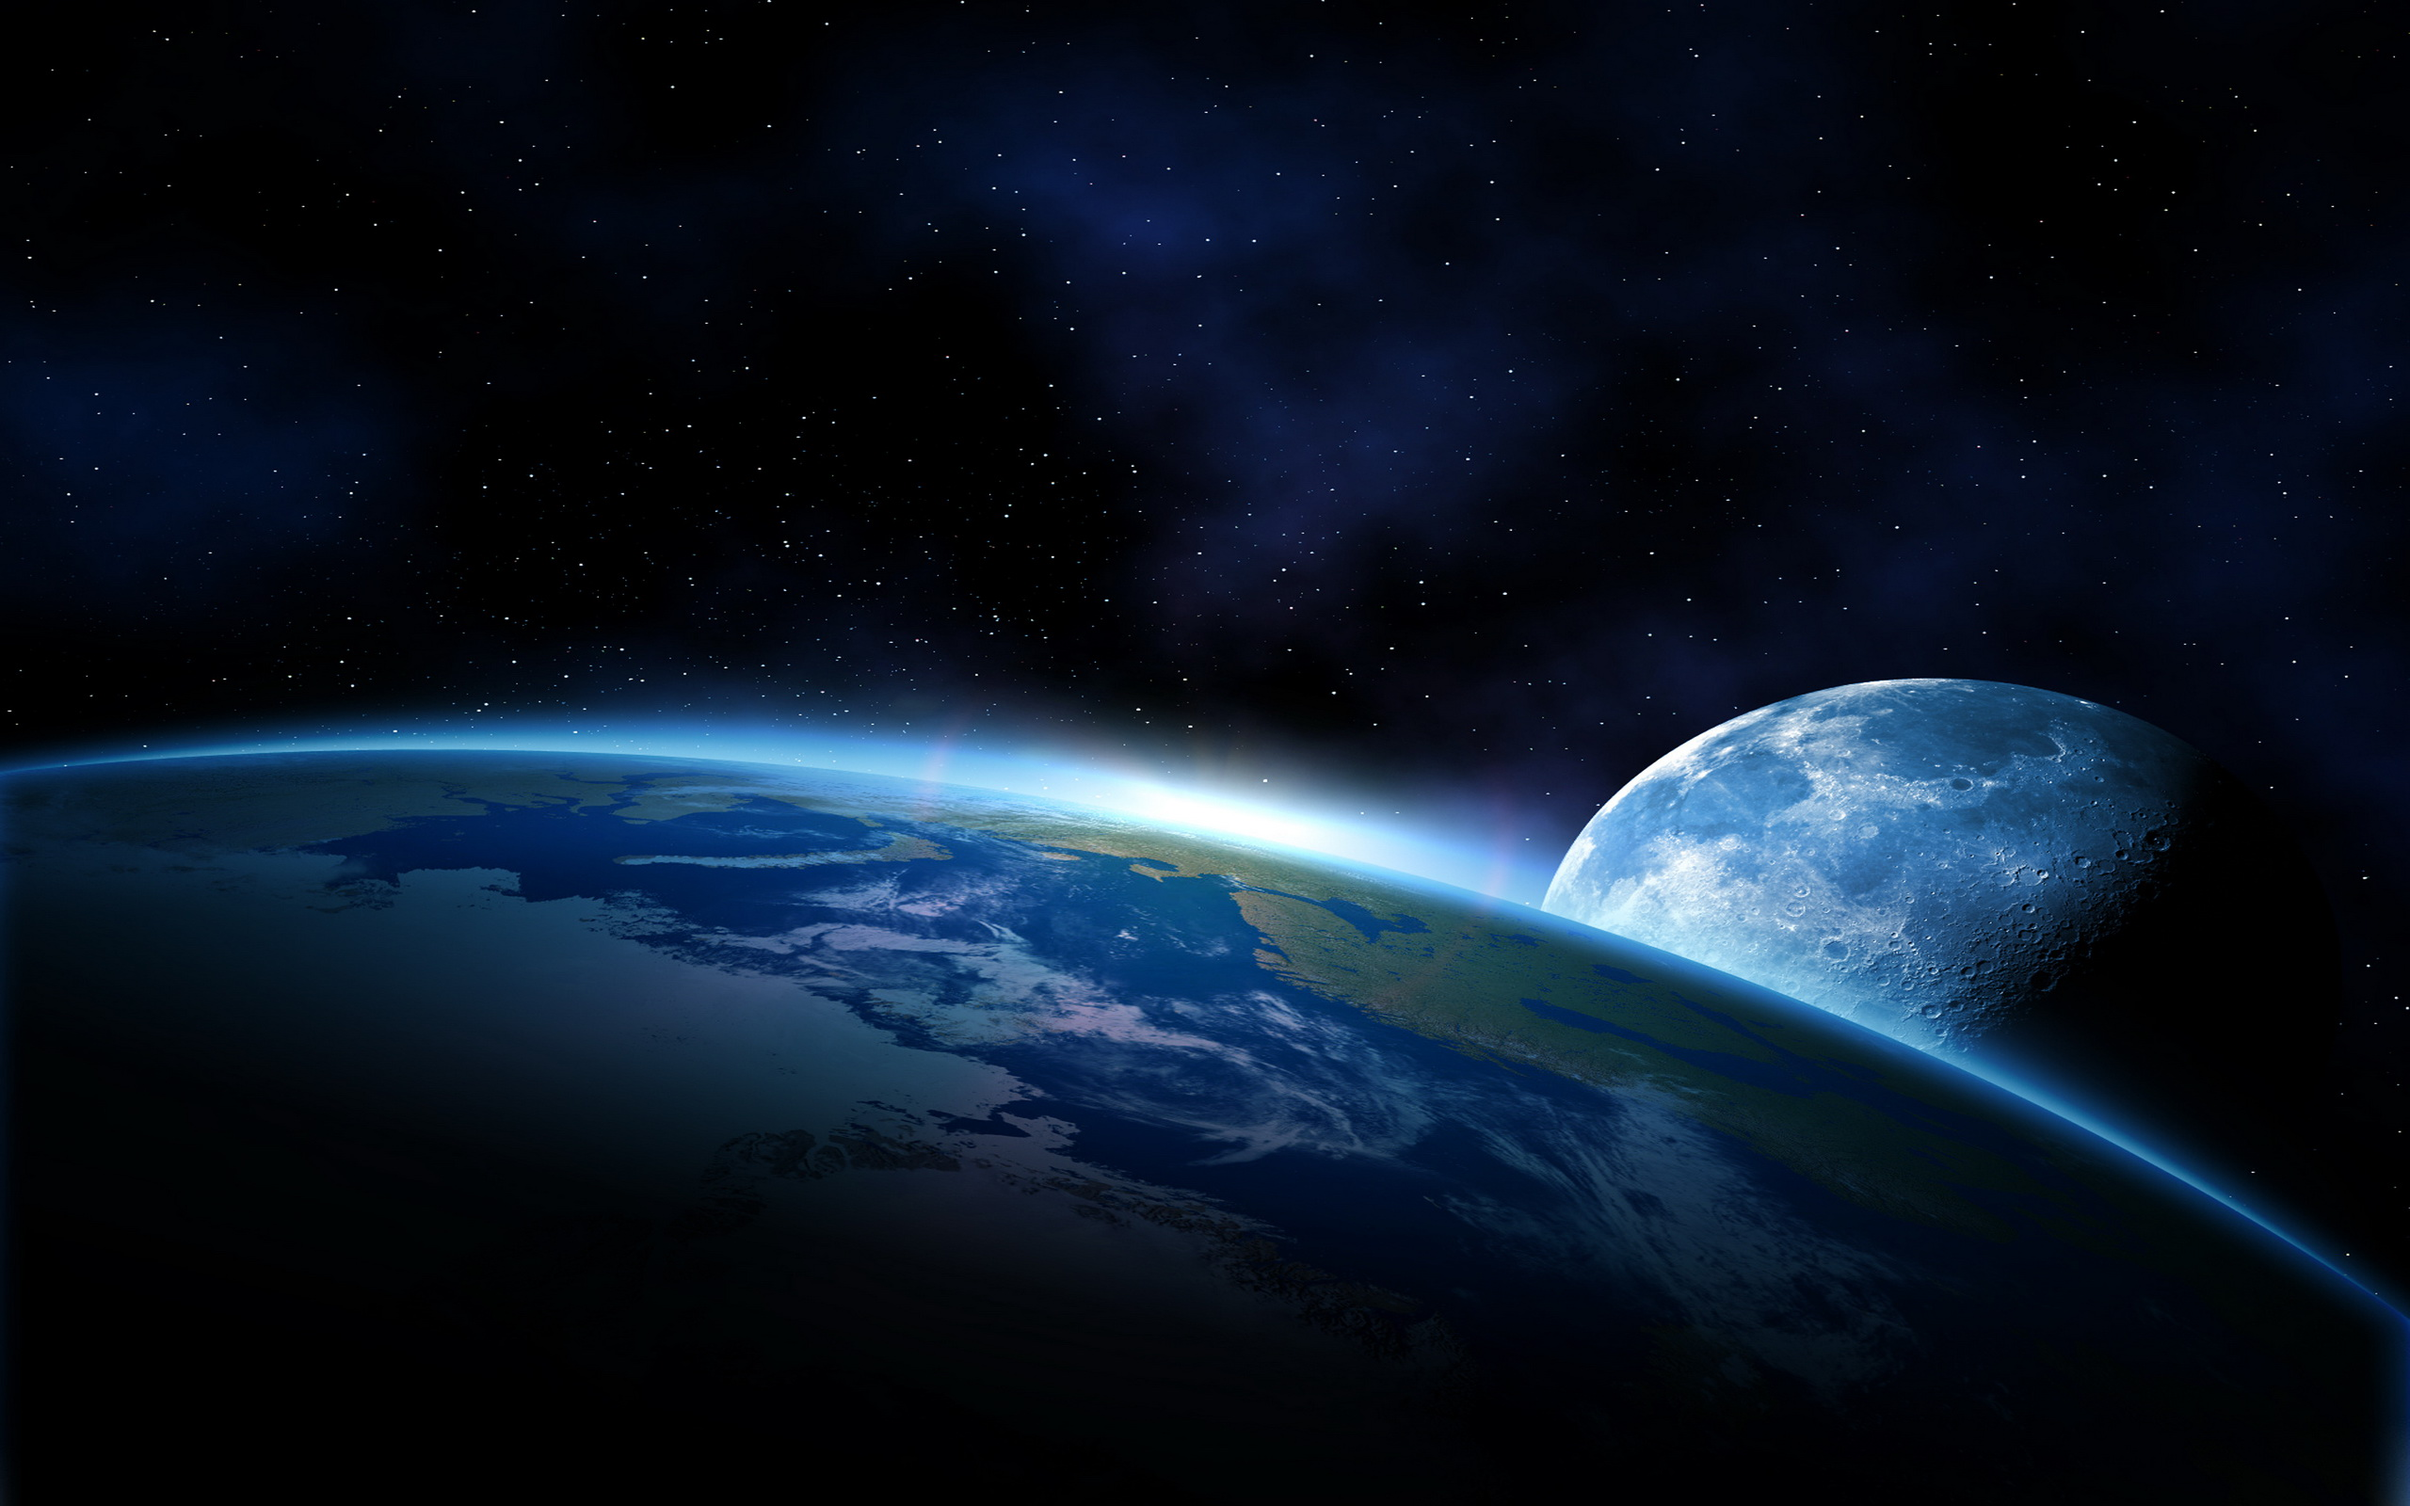
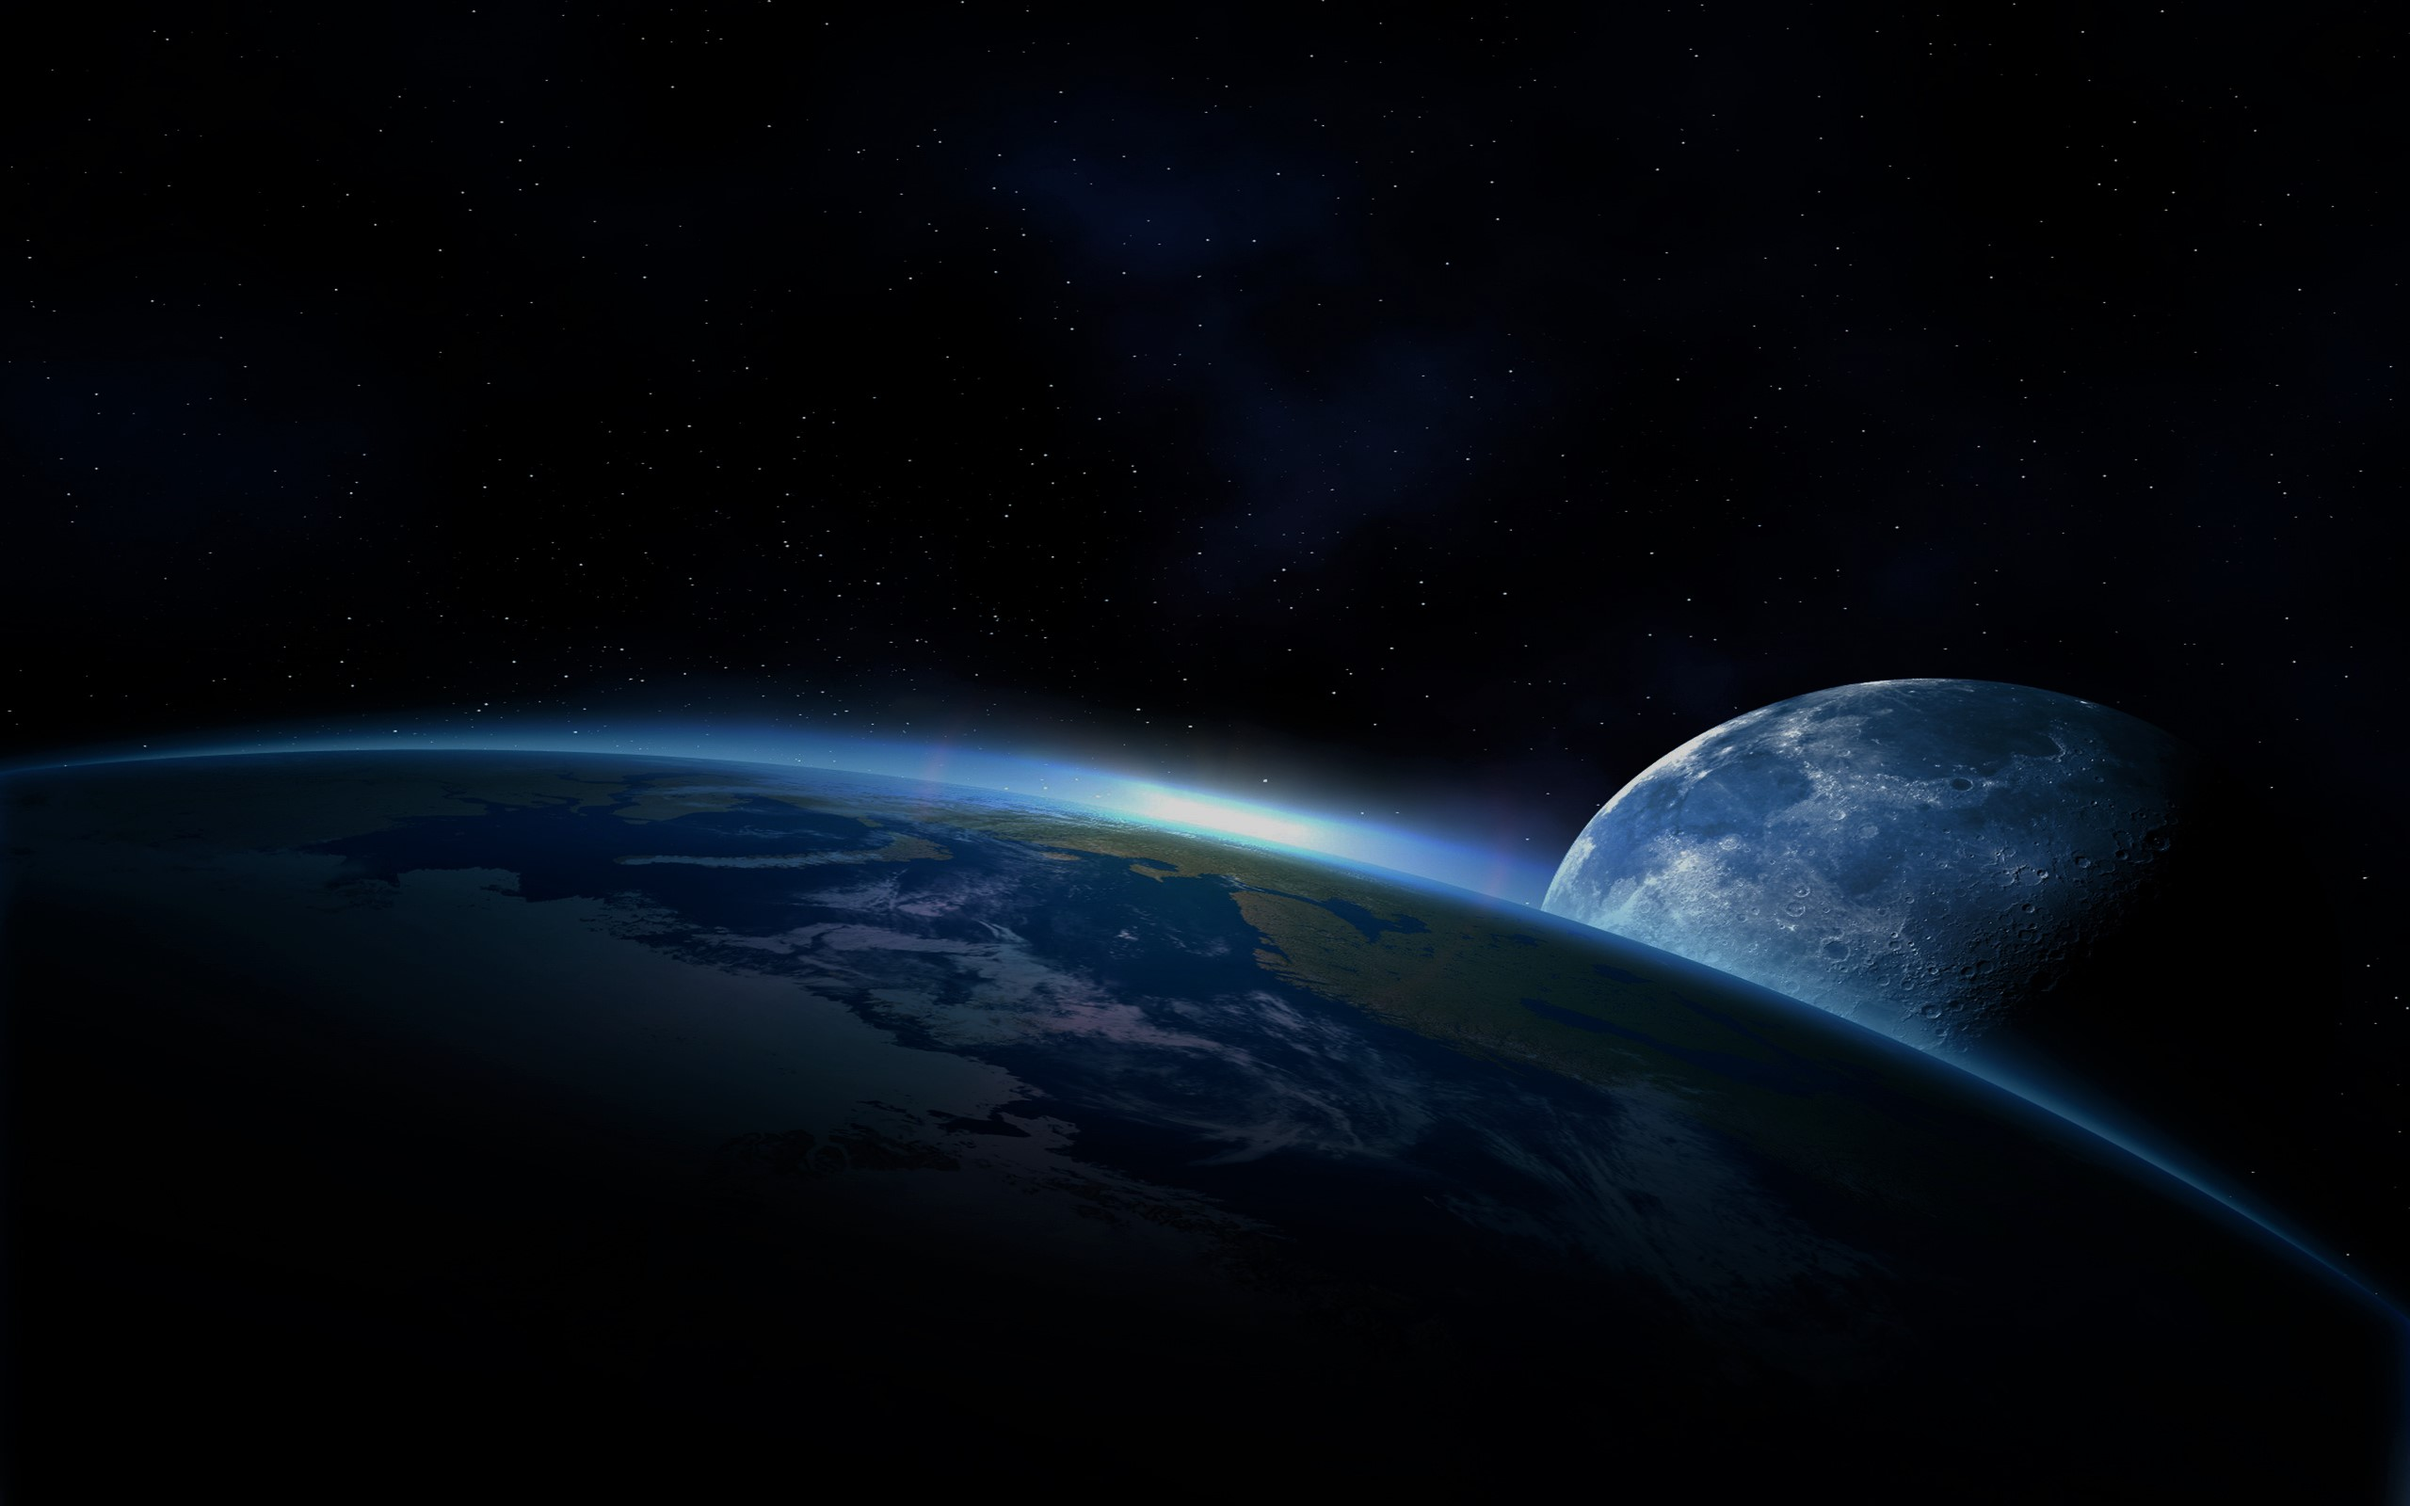
test2

diff --git a/index.html b/index.html
@@ -63,7 +63,7 @@
     <main role="main">    
       <!-- Header -->
 
-      <header class="cover-header section-top-padding background-image text-center" style="background:linear-gradient(rgba(0, 0, 0, 0.322),rgba(0, 0, 0, 0.836)),url('img/img-05.jpg') no-repeat center center fixed;
+      <header class="cover-header section-top-padding background-image text-center" style="background: url('img/globe3.jpg') no-repeat center center fixed;
       ">
         
         <h1 class="text-extra-thin text-white text-s-size-20 text-m-size-40 text-size-50 text-line-height-1 margin-bottom-40 margin-top-130">
